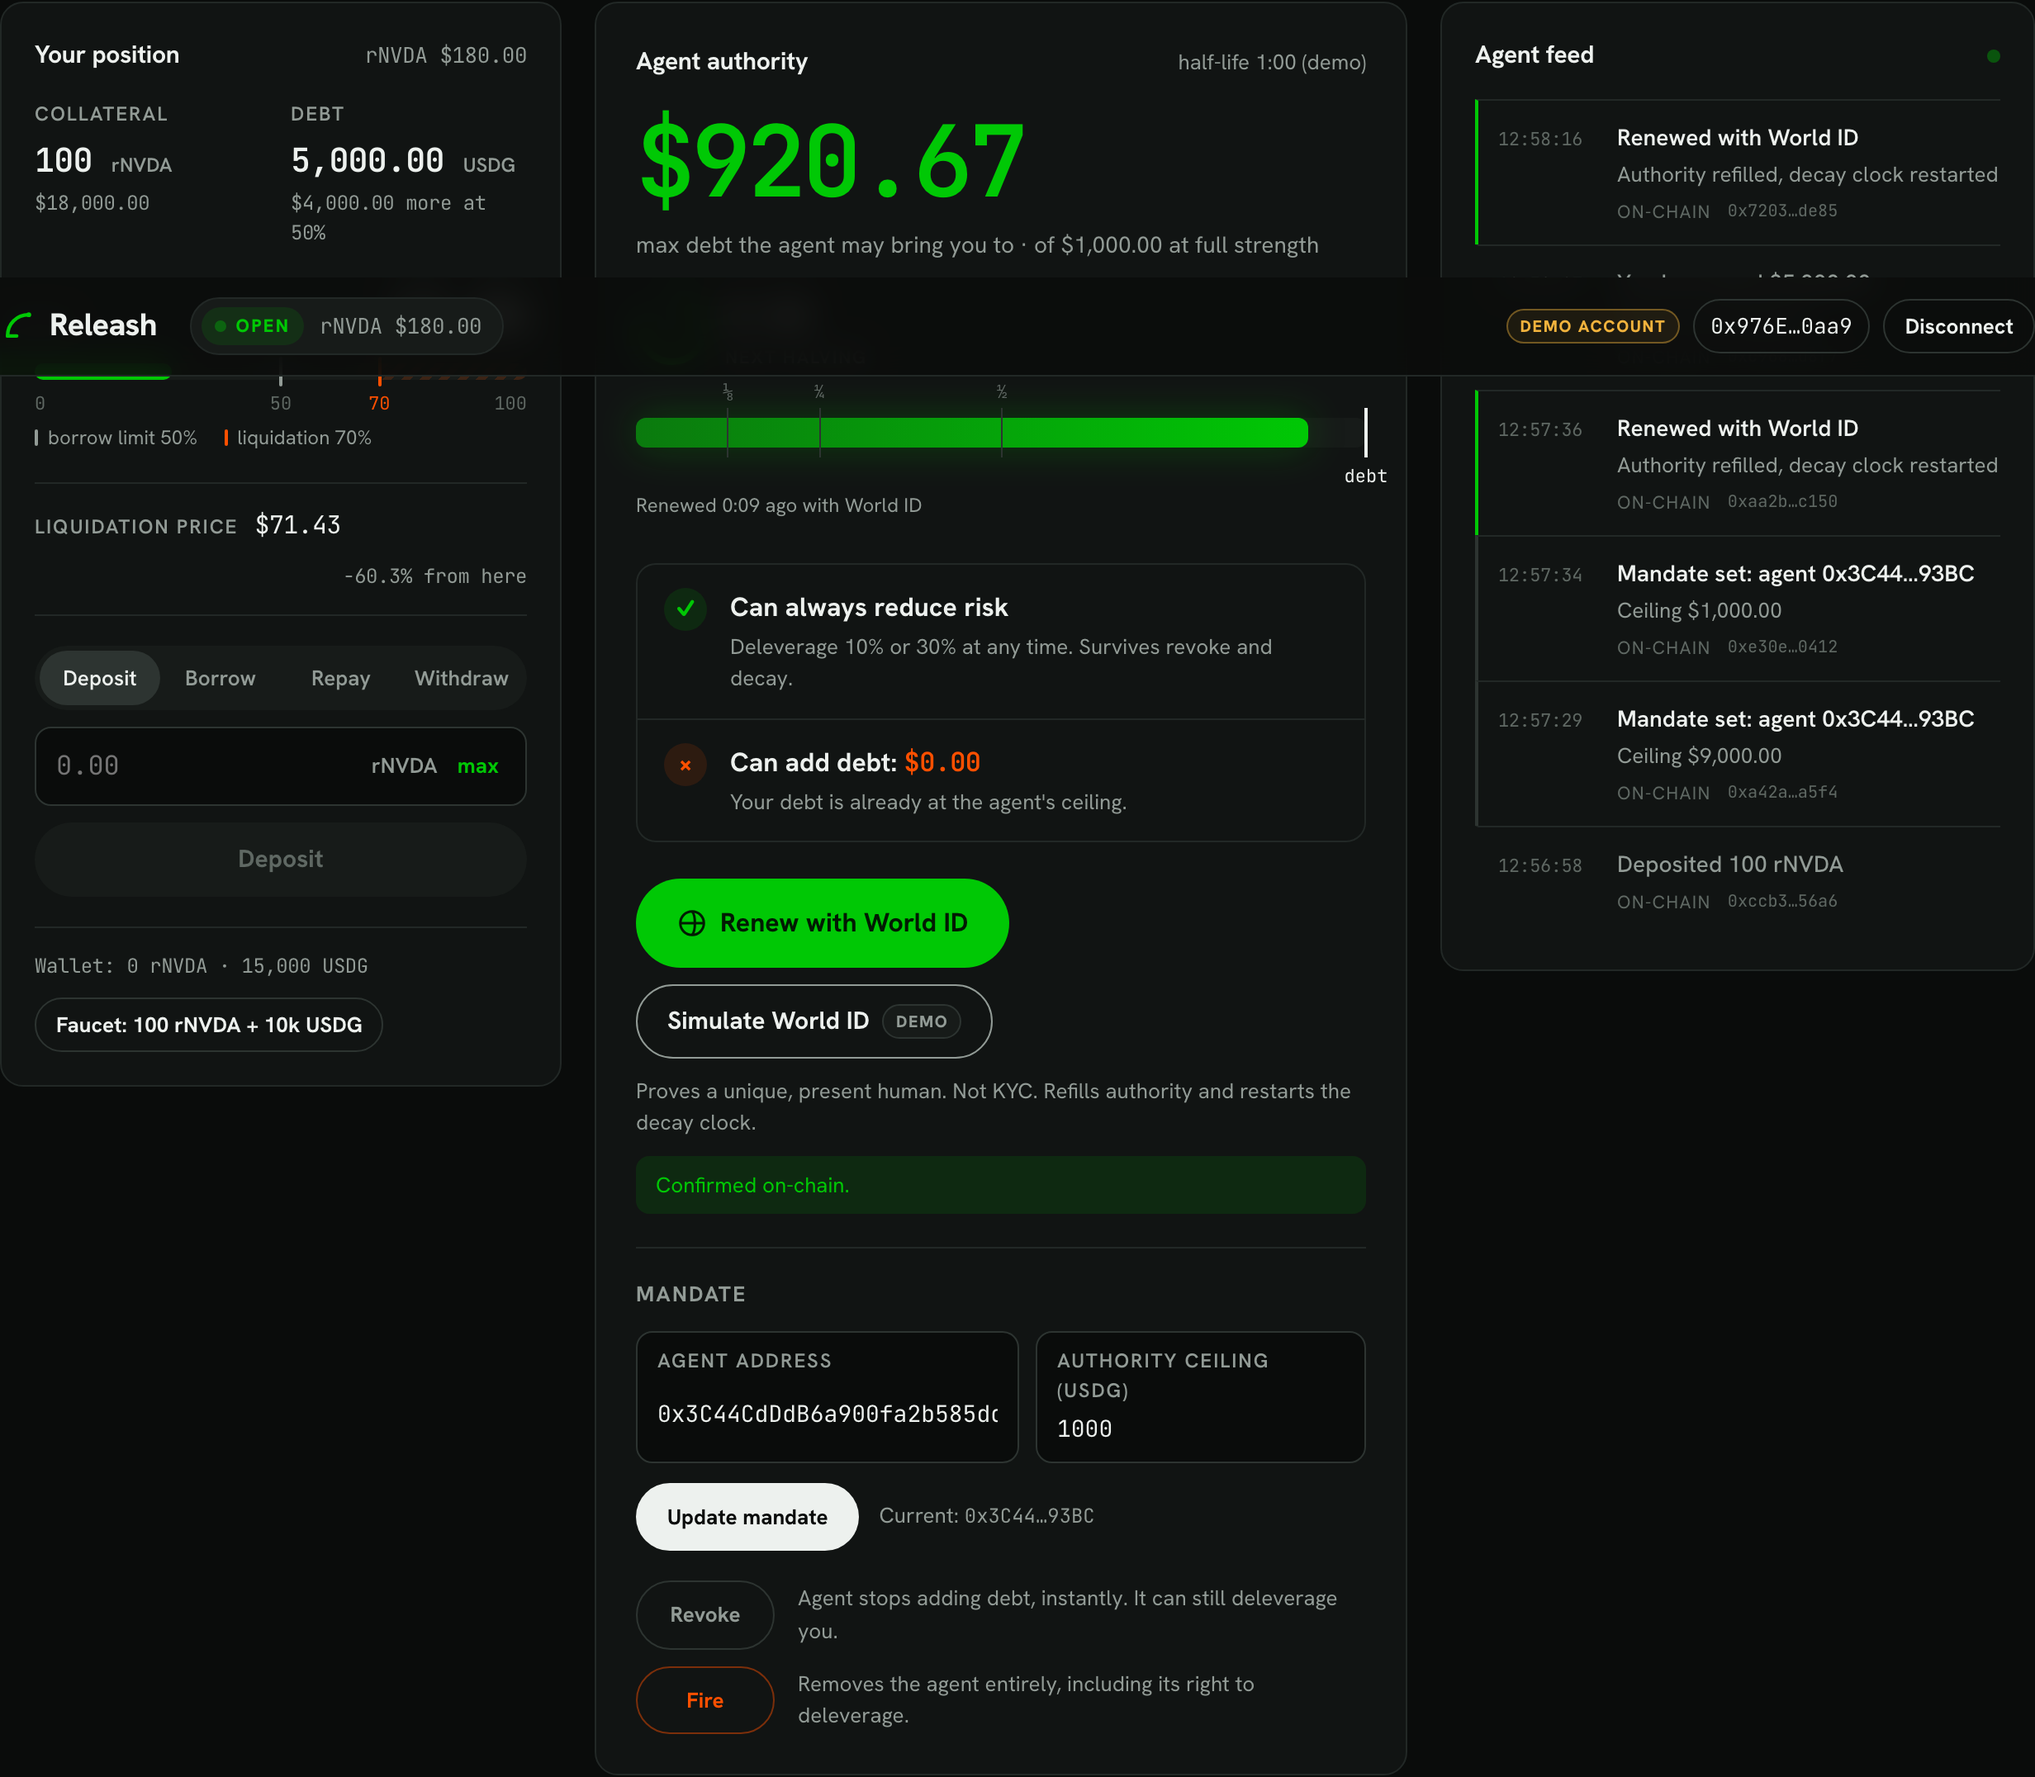
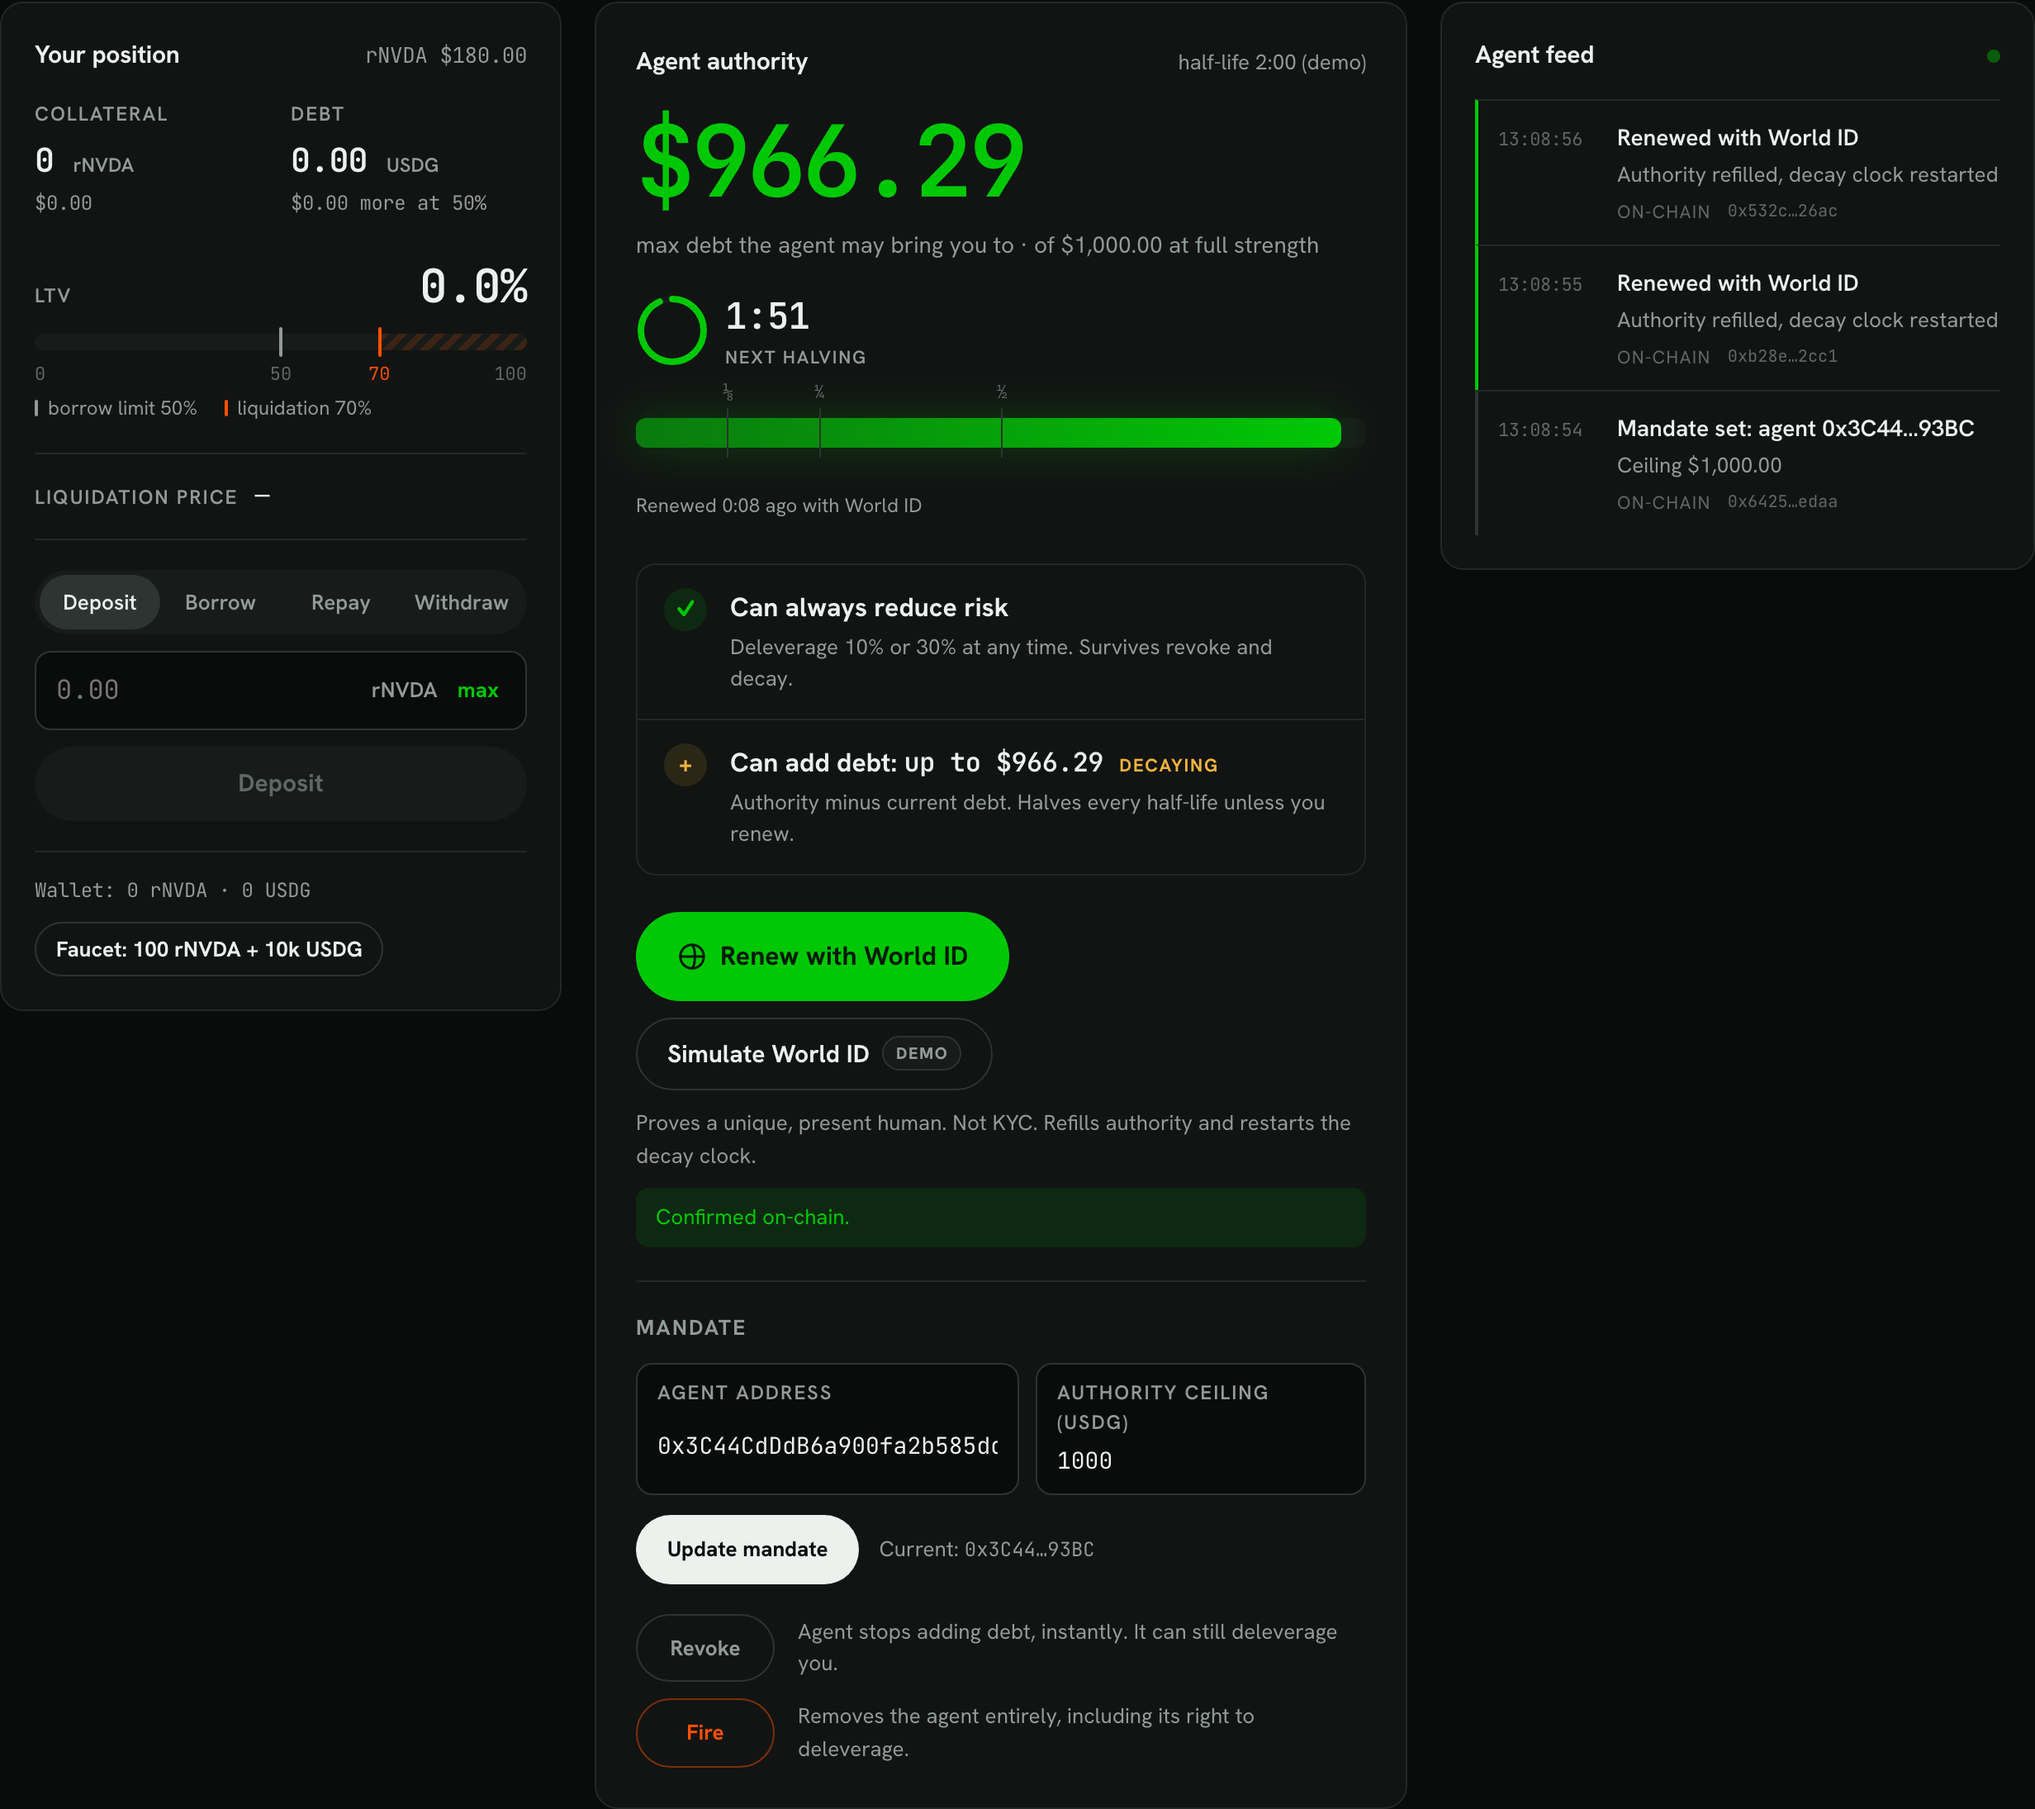
web: half-life read from the vault, feed ordered by chain time, blocked lines lead with the error name, nominal Friday close on the weekend badge

diff --git a/web/src/lib/reads.ts b/web/src/lib/reads.ts
@@ -21,6 +21,8 @@ export type VaultState = {
   allowUsdg: bigint;
   allowStock: bigint;
   vaultLiquidity: bigint;
+  /** Read from the vault (immutable), not the deployment JSON, so the meter can never drift from the contract. */
+  halfLife: number;
 };
 
 const ZERO = "0x0000000000000000000000000000000000000000" as Address;
@@ -35,7 +37,7 @@ async function readVault(owner: Address): Promise<VaultState> {
   const r = <T,>(address: Address, abi: typeof ABI.vault, functionName: string, args: unknown[] = []) =>
     publicClient.readContract({ address, abi, functionName, args, ...at }) as Promise<T>;
 
-  const [pos, man, auth, price, health, walletUsdg, walletStock, allowUsdg, allowStock, vaultLiquidity] = await Promise.all([
+  const [pos, man, auth, price, health, walletUsdg, walletStock, allowUsdg, allowStock, vaultLiquidity, halfLife] = await Promise.all([
     r<readonly [bigint, bigint]>(V.address, V.abi, "positions", [owner]),
     r<readonly [Address, bigint, bigint, boolean]>(V.address, V.abi, "mandates", [owner]),
     r<bigint>(V.address, V.abi, "authorityNow", [owner]),
@@ -46,6 +48,7 @@ async function readVault(owner: Address): Promise<VaultState> {
     r<bigint>(DEPLOYMENT.usdg, ABI.usdg, "allowance", [owner, DEPLOYMENT.vault]),
     r<bigint>(DEPLOYMENT.rnvda, ABI.stock, "allowance", [owner, DEPLOYMENT.vault]),
     r<bigint>(DEPLOYMENT.usdg, ABI.usdg, "balanceOf", [DEPLOYMENT.vault]),
+    r<bigint>(V.address, V.abi, "halfLife"),
   ]);
 
   const ltv = health[2];
@@ -65,6 +68,7 @@ async function readVault(owner: Address): Promise<VaultState> {
     allowUsdg,
     allowStock,
     vaultLiquidity,
+    halfLife: Number(halfLife),
   };
 }
 

diff --git a/web/src/components/Header.tsx b/web/src/components/Header.tsx
@@ -18,9 +18,10 @@ export function Wordmark() {
   );
 }
 
-function fmtFrozen(ts: number) {
-  const d = new Date(ts * 1000);
-  return `${d.toLocaleDateString("en-US", { weekday: "short" })} ${d.toLocaleTimeString("en-GB", { hour: "2-digit", minute: "2-digit" })}`;
+/** The keeper's close is a demo stand-in for the Friday 16:00 ET close: show the nominal close plus
+ * how long the price has really been frozen (chain time), not the demo's wall-clock weekday. */
+function frozenText(since: number | undefined, now: number) {
+  return `since Fri 16:00${since ? ` (${fmtAgo(now - since).replace(" ago", "")})` : ""}`;
 }
 
 export function MarketBadge({ state }: { state?: VaultState }) {
@@ -47,7 +48,7 @@ export function MarketBadge({ state }: { state?: VaultState }) {
       <span className="market__detail num">
         {m.open
           ? `rNVDA ${price ?? ""}`
-          : `price frozen${m.frozenSince ? ` since ${fmtFrozen(m.frozenSince)}` : ""}${price ? ` at ${price}` : ""}`}
+          : `price frozen ${frozenText(m.frozenSince, now)}${price ? ` at ${price}` : ""}`}
       </span>
     </div>
   );

diff --git a/web/src/components/RenewWorldId.tsx b/web/src/components/RenewWorldId.tsx
@@ -26,7 +26,17 @@ export function RenewWorldId({ owner, agent, disabled }: { owner?: Address; agen
       // renew() reverts RenewalNotNewer when a revoke, fire or agent change landed in the same second
       // (renewalFloor moved). One fresh signature from the backend usually clears it.
       for (let i = 0; i < 2; i++) {
-        const out = await api<RenewalResponse>("/api/renew", { owner, agent, idkitResult });
+        let out: RenewalResponse;
+        try {
+          out = await api<RenewalResponse>("/api/renew", { owner, agent, idkitResult });
+        } catch (e) {
+          // A second request can fail on the proof's single-use nonce: that is still "superseded".
+          if (i === 1) {
+            tx.setError({ name: "RenewalNotNewer", message: "Renewal superseded — try again." });
+            break;
+          }
+          throw e;
+        }
         setStage("Submitting renewal…");
         const r = out.renewal;
         const fail = await tx.attempt("renew", [

diff --git a/web/src/components/Feed.tsx b/web/src/components/Feed.tsx
@@ -59,7 +59,7 @@ const ACTION_TITLE: Record<string, string> = {
 function fromAgent(e: AgentEntry): Item {
   const title = (ACTION_TITLE[e.action] ?? `Agent: ${e.action}`) + (e.action === "borrow" && e.amount ? ` ${fmtUsd(e.amount)}` : "");
   if (e.blocked)
-    return { id: `a-${e.id}`, ts: e.ts, source: "agent", tone: "bad", title: `${title} — blocked on-chain: ${e.error ?? "reverted"}`, detail: e.reason, txHash: e.txHash };
+    return { id: `a-${e.id}`, ts: e.ts, source: "agent", tone: "bad", title: `Blocked on-chain: ${e.error ?? "Reverted"}`, detail: `${title}. ${e.reason}`, txHash: e.txHash };
   return { id: `a-${e.id}`, ts: e.ts, source: "agent", tone: e.action === "hold" ? "dim" : "info", title, detail: e.reason, txHash: e.txHash };
 }
 

diff --git a/web/src/lib/backend.ts b/web/src/lib/backend.ts
@@ -90,7 +90,9 @@ export type AgentEntry = {
 };
 
 function normalizeEntry(e: Record<string, unknown>, i: number): AgentEntry {
-  const tsRaw = e.ts ?? e.time ?? e.timestamp ?? e.at;
+  // Prefer the chain time the agent observed: wall-clock ts disagrees with block time after a warp.
+  const chainTs = (e.state as Record<string, unknown> | undefined)?.chainTs;
+  const tsRaw = chainTs !== undefined && chainTs !== null && chainTs !== "" ? Number(chainTs) : (e.ts ?? e.time ?? e.timestamp ?? e.at);
   let ts = typeof tsRaw === "number" ? tsRaw : Date.parse(String(tsRaw)) / 1000;
   if (ts > 1e12) ts /= 1000;
   if (!Number.isFinite(ts)) ts = 0;

diff --git a/web/src/components/AuthorityPanel.tsx b/web/src/components/AuthorityPanel.tsx
@@ -9,12 +9,12 @@ import { RenewWorldId } from "./RenewWorldId";
 import { TxStatus } from "./TxStatus";
 
 const V = { address: DEPLOYMENT.vault, abi: ABI.vault };
-const HALF_LIFE = DEPLOYMENT.halfLife;
 
 type Phase = "none" | "unrenewed" | "revoked" | "decayed" | "live";
 
 export function AuthorityPanel({ owner, state }: { owner?: Address; state?: VaultState }) {
   const now = useChainNow();
+  const HALF_LIFE = state?.halfLife ?? DEPLOYMENT.halfLife;
   const m = state?.mandate;
   const base = m ? usd(m.authorityBase) : 0;
   const debt = state ? usd(state.position.debt) : 0;
